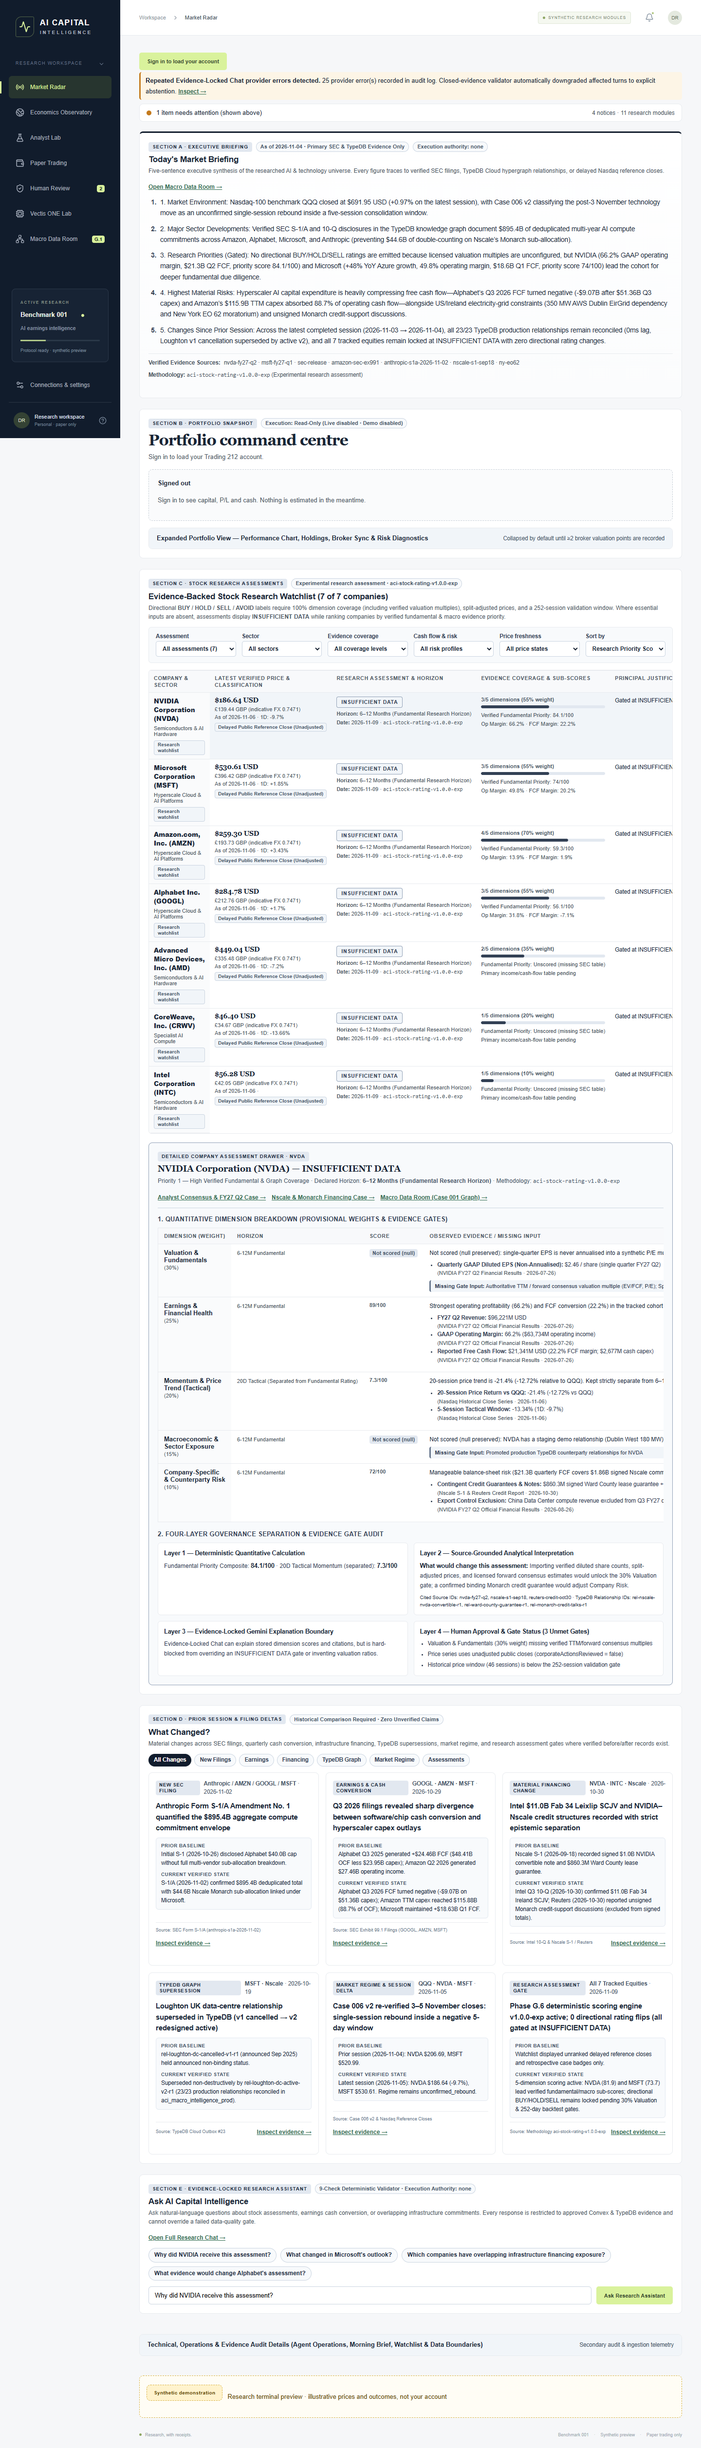
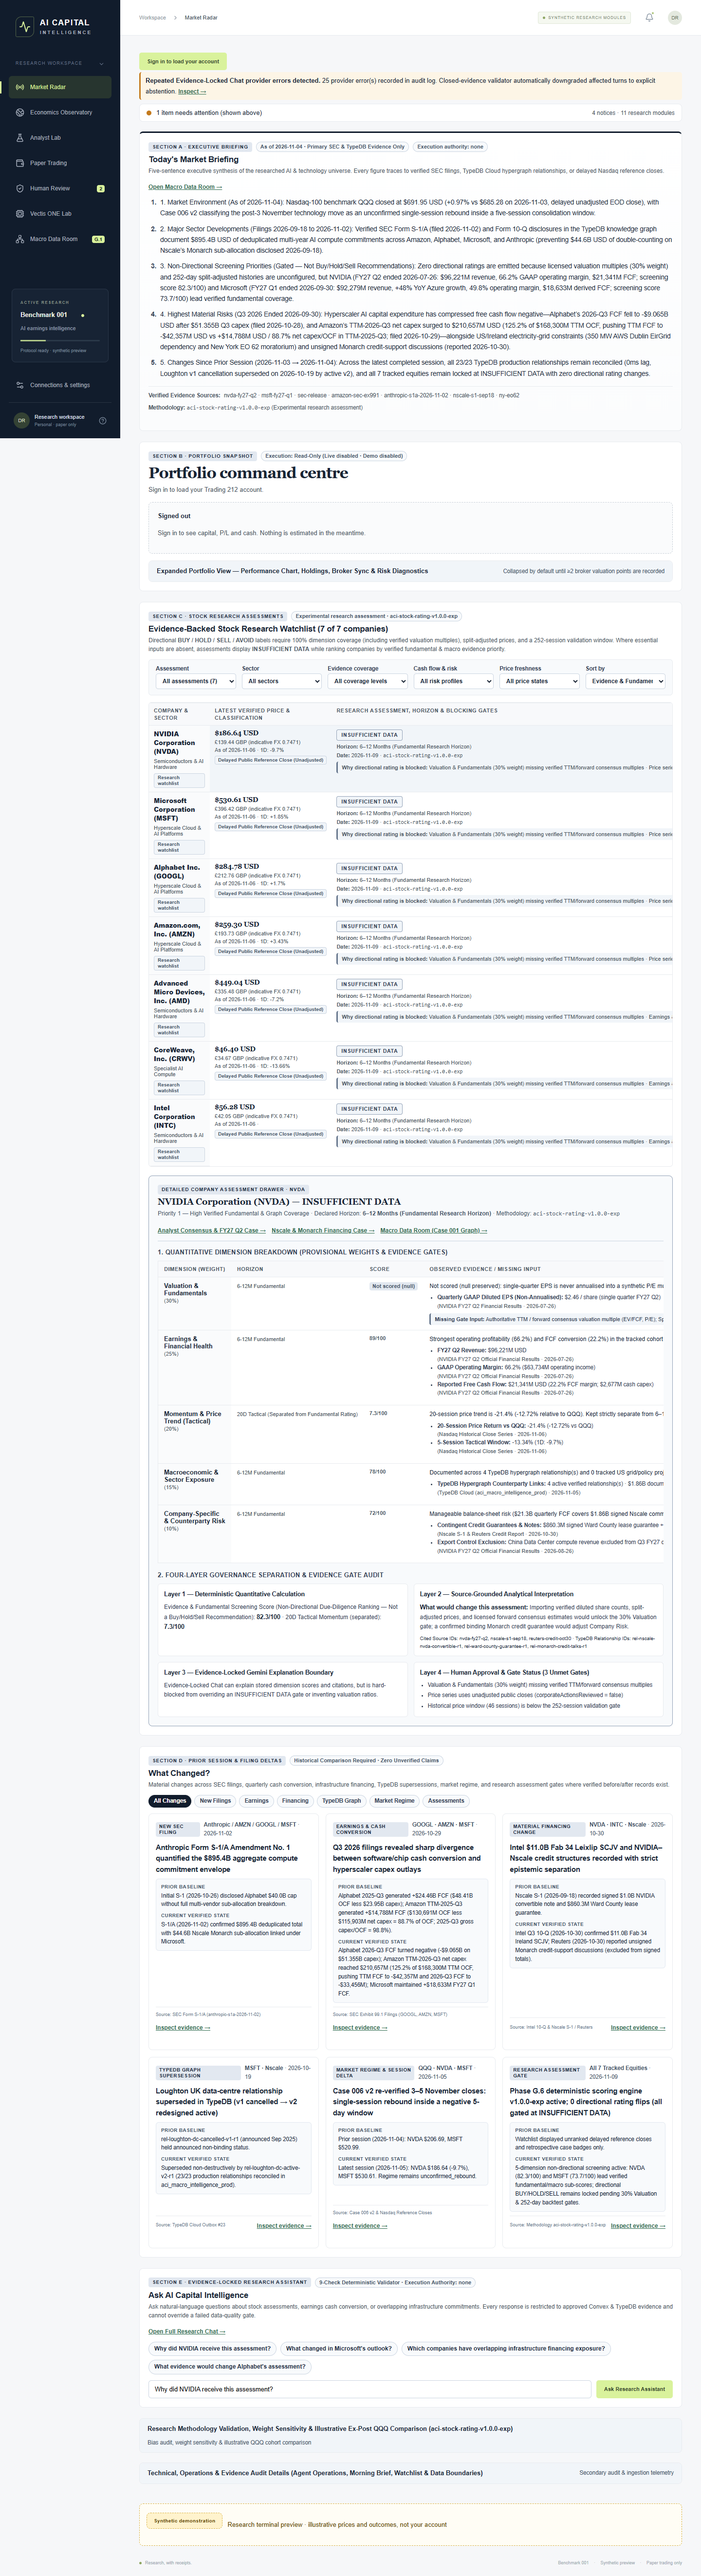
docs(phase-g6): record live production audit screenshots and final SHA

diff --git a/docs/phase-g6-market-radar-ux-and-research-ratings.md b/docs/phase-g6-market-radar-ux-and-research-ratings.md
@@ -2,7 +2,7 @@
 
 **Document Status**: Formal Phase G.6 Production Acceptance & Financial Integrity Sign-Off Report  
 **Target Production Deployment**: `https://capital.aiguides.co.uk`  
-**Deployed Git Commit SHA**: `b93c2a0` (superseding `77e6a4d`, `b8836e2`, and `d22219b`)  
+**Deployed Git Commit SHA**: `cbf3b53` (superseding `b93c2a0`, `77e6a4d`, `b8836e2`, and `d22219b`)  
 **Methodology Version**: `aci-stock-rating-v1.0.0-exp` (`Experimental research assessment`)  
 **Execution Authority**: `none` (Live & Demo order submission disabled; read-only broker & knowledge-graph architecture preserved)
 
